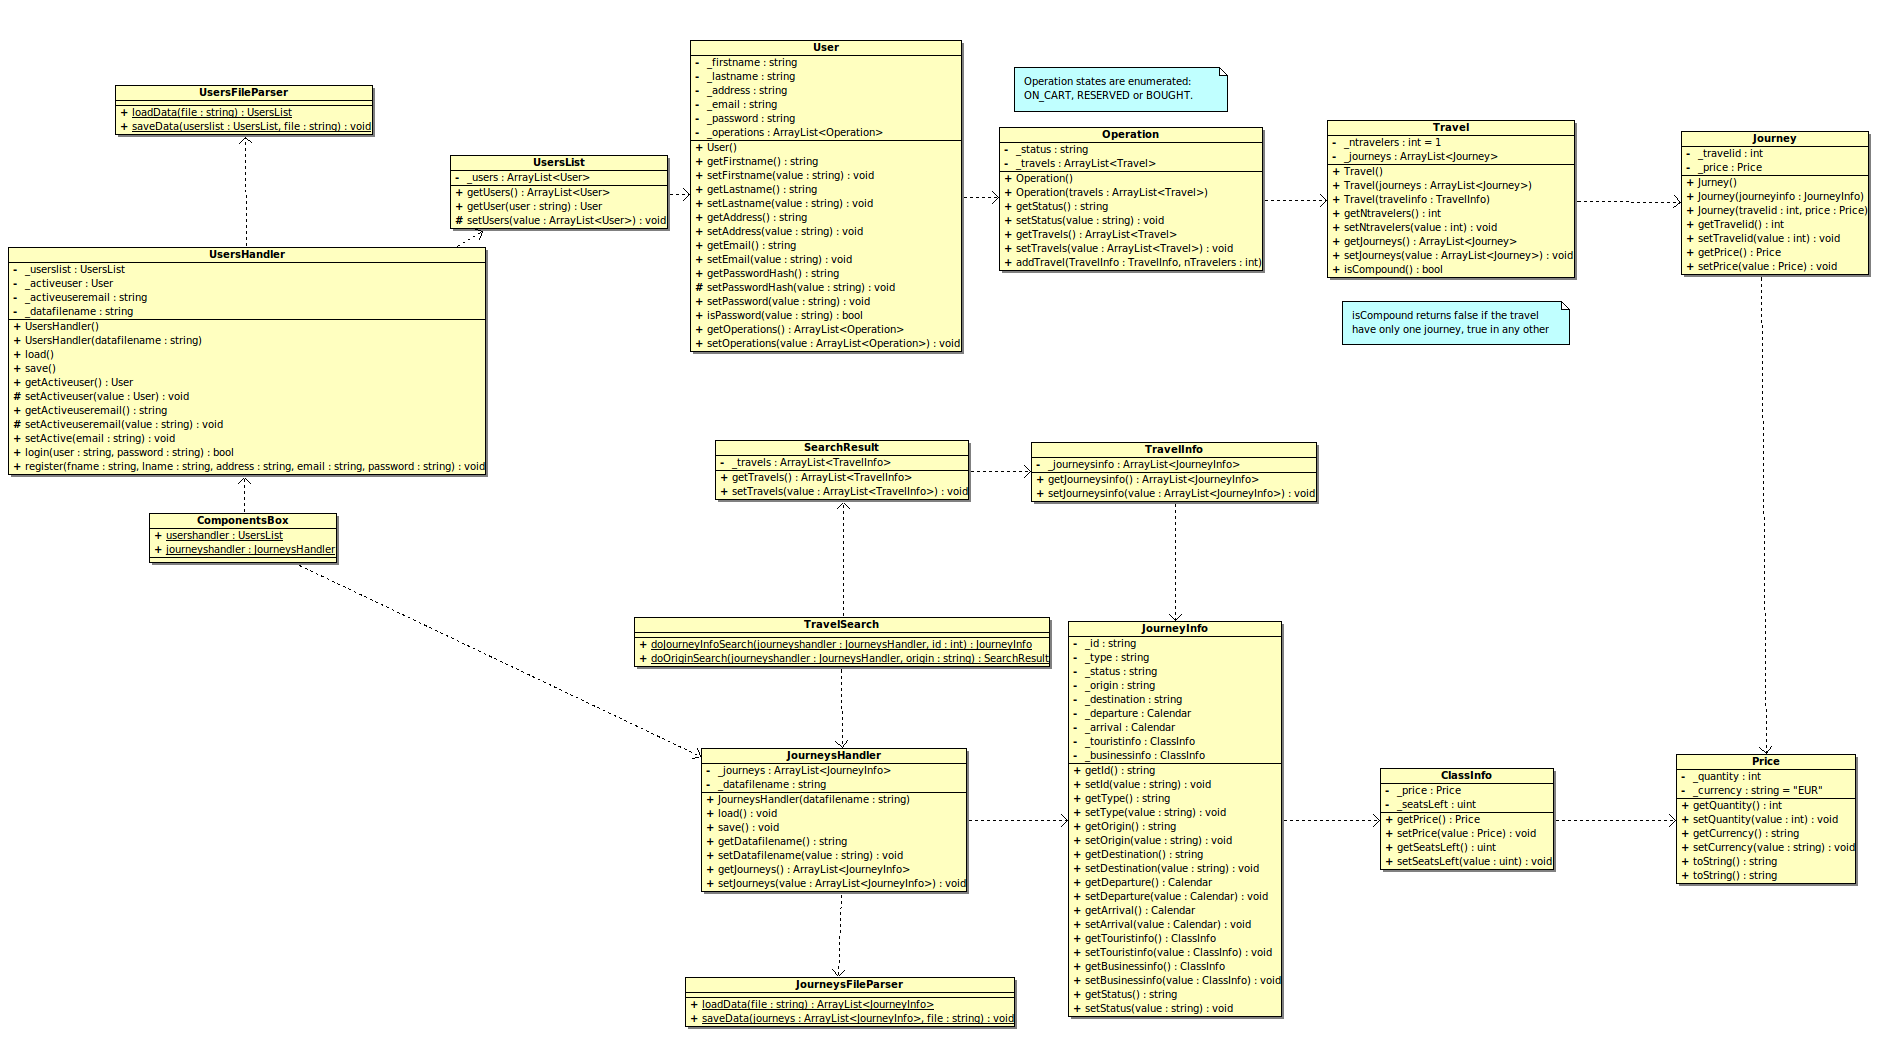
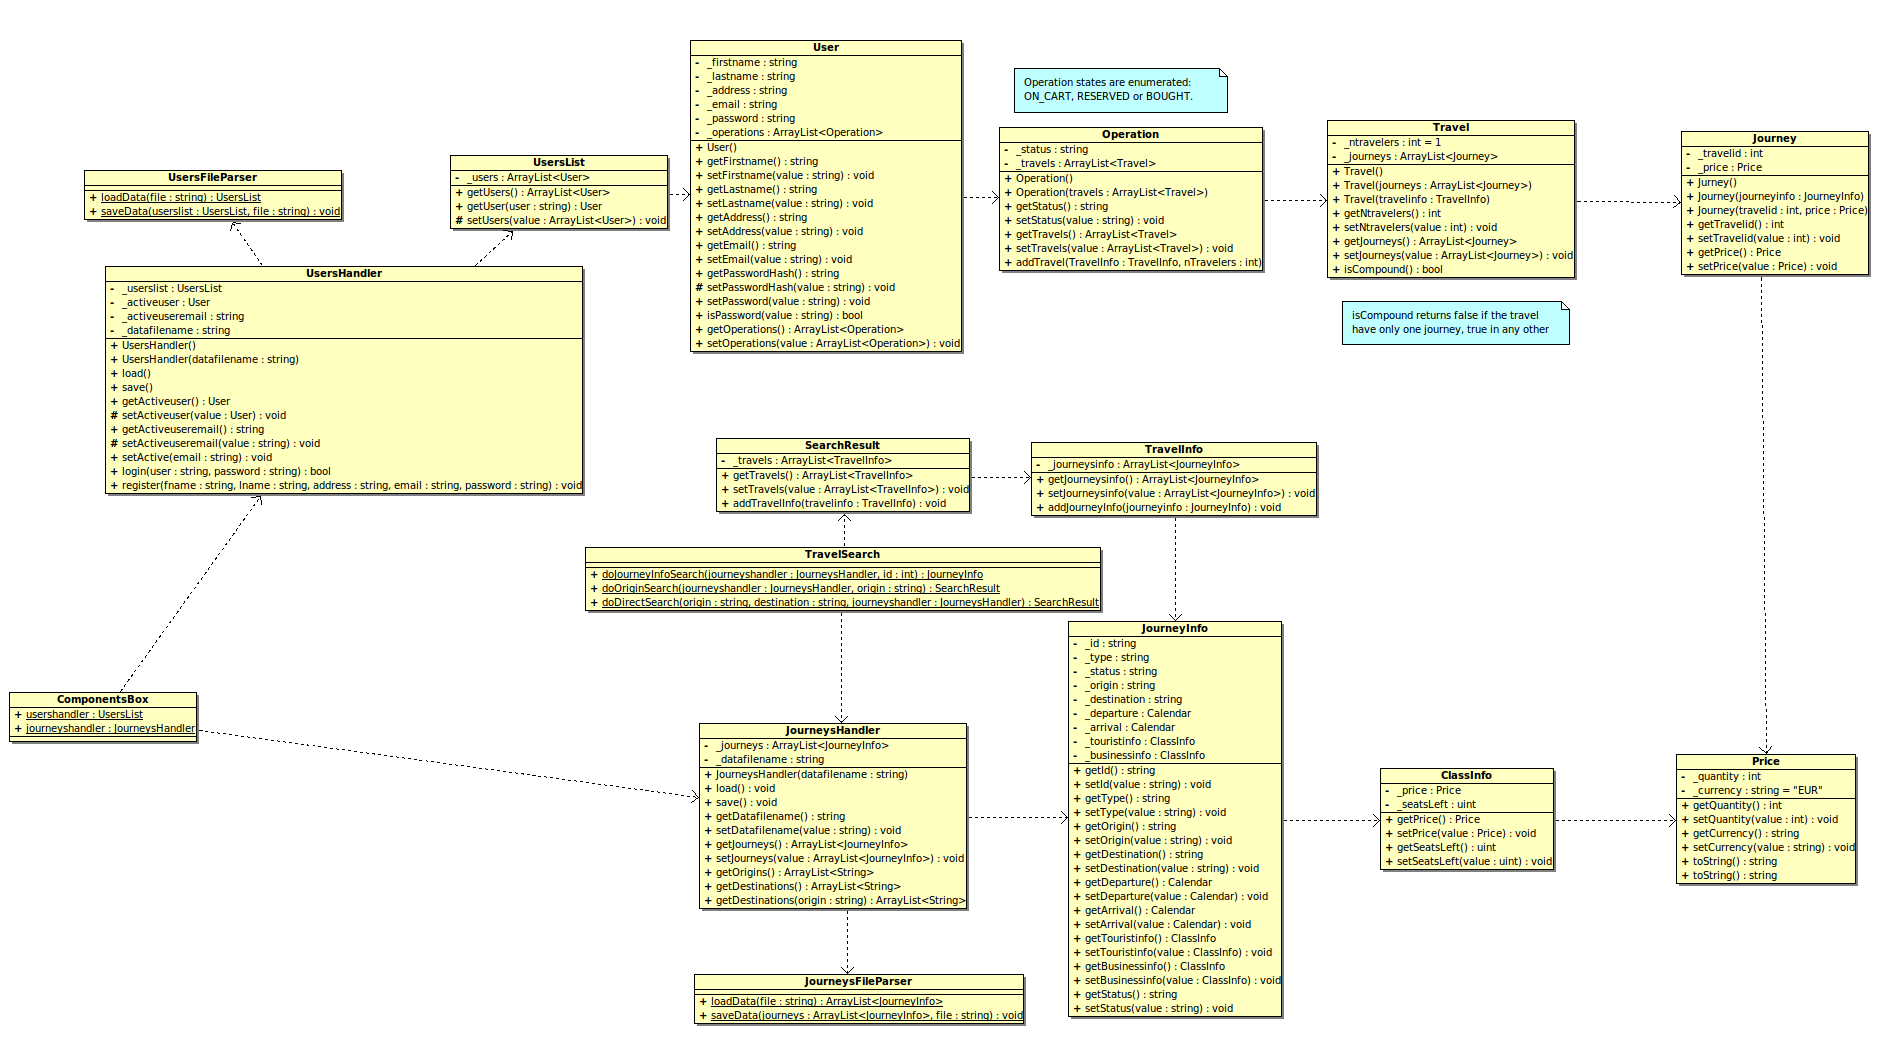
Updated classes diagram with last improvements
Added some methods and changed position of some elements to make it clearer.

diff --git a/GOALS.md b/GOALS.md
@@ -2,8 +2,8 @@
 ## Iteración 4
 <pre>
 [P] Diseñar diagrama de sequencia de la consulta de tarifas desde un origen
-[D] Implementar consulta de tarifas desde un origen (Req. CONS01)
-[ ] Implementar consulta de tarifas de transporte directo entre dos ciudades (Req. CONS03)
+[P] Implementar consulta de tarifas desde un origen (Req. CONS01)
+[P] Implementar consulta de tarifas de transporte directo entre dos ciudades (Req. CONS03)
 </pre>
 
 ### Leyenda:
